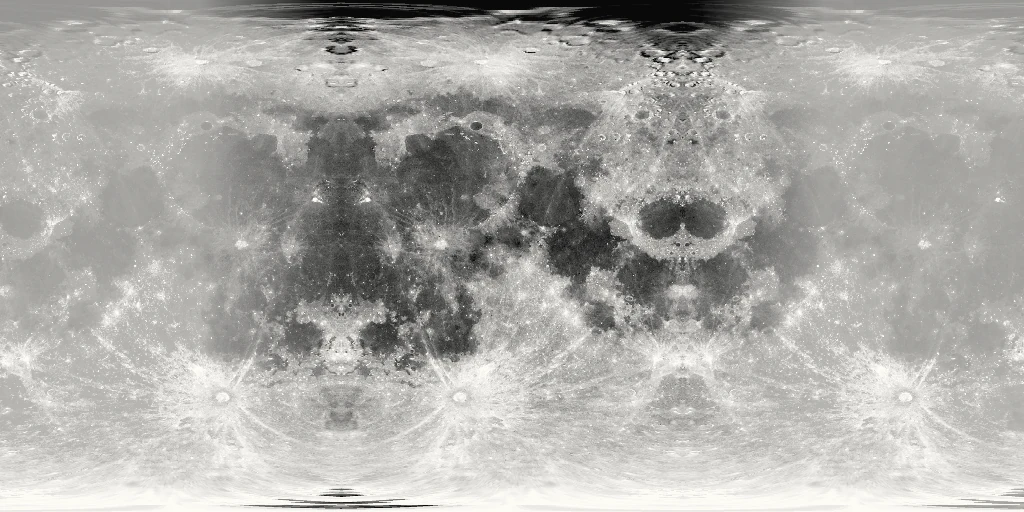
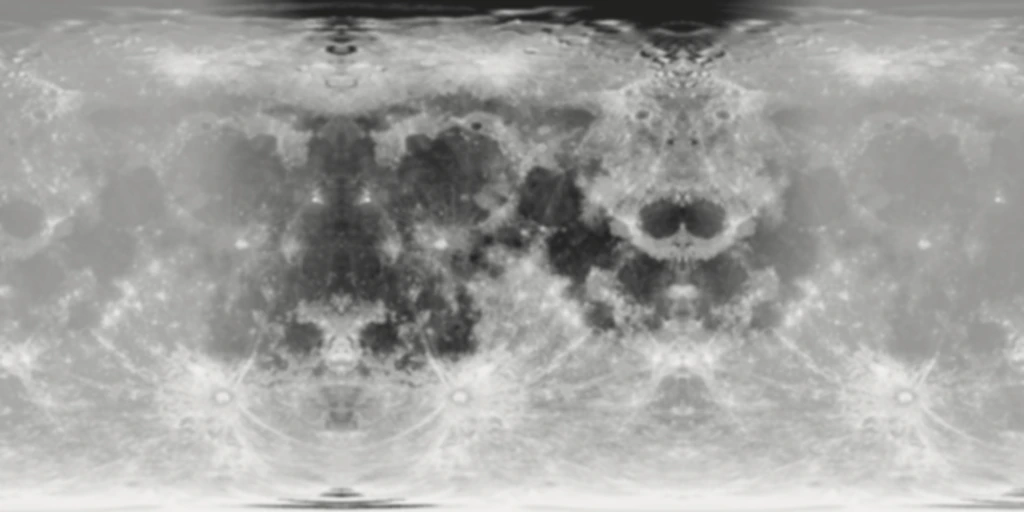
Fix the moon: stop the sparkle, make the spin visible, cool the glow
Three complaints, three distinct causes.

Glitter. The texture was sampled with nearest-neighbour. A 1024px map
on a ~92px disc puts about ten texels under every screen pixel, so each
one snapped from texel to texel as the sphere turned and the surface
crawled. Now sampled bilinearly, and the map itself is pre-blurred when
generated, which is the honest equivalent of picking a mip level for the
size it actually prints at. Measured spatial roughness inside the disc
falls 4.93 -> 2.46. The star twinkle and the flash on each meteor head
were glittering too: twinkle amplitude 0.45 -> 0.10 and much slower, and
the 7px white halo on the head is now a 3.4px soft one.

Rotation. It was turning at 0.016 rad/s, one revolution per six and a
half minutes. Cross-correlating the surface puts that at 0.60 px/sec of
travel, which is sub-pixel and so not rotation anyone can see. Now
0.078 rad/s, one turn per ~80 seconds, measured at 3.35 px/sec.

Glow. The corona was amber, carried over from a reference photograph
shot through warm haze, sitting on a blue-black sky. Measured as blue
minus red it ran -10 at the rim against a sky of +29: warm ring, cool
sky. Re-toned to the sky, now +6 at the rim and +19 just outside it, and
the moonlit cloud and halo stops go silver rather than sodium.

Hero text contrast holds or improves at every width (worst case, the
eyebrow at 390: 6.45 -> 6.85). Backdrop runs 38fps.

Claude-Session: https://claude.ai/code/session_01SKznHeeSFFYwbhuewwmQCu

diff --git a/assets/js/backdrop.js b/assets/js/backdrop.js
@@ -50,7 +50,7 @@
   var SKY_MID  = [22, 31, 45];
   var SKY_LOW  = [7, 9, 13];       /* meets the page ground                */
   var CLOUD    = [122, 134, 152];  /* cold cloud                           */
-  var CLOUD_W  = [150, 126, 110];  /* the warm side, near the light        */
+  var CLOUD_W  = [146, 158, 180];  /* the lit side: silver, not sodium     */
 
   /* ---------- buffer ----------
      Sized to the band's own aspect so nothing is cropped, and capped
@@ -89,8 +89,8 @@
     var halo = u.createRadialGradient(moon.x, moon.y, 0, moon.x, moon.y, W * 0.38);
     halo.addColorStop(0,    'rgba(226,234,248,' + (0.38 * lightScale).toFixed(3) + ')');
     halo.addColorStop(0.16, 'rgba(188,200,222,' + (0.21 * lightScale).toFixed(3) + ')');
-    halo.addColorStop(0.45, 'rgba(150,146,150,' + (0.09 * lightScale).toFixed(3) + ')');
-    halo.addColorStop(1,    'rgba(120,110,108,0)');
+    halo.addColorStop(0.45, 'rgba(140,152,178,' + (0.09 * lightScale).toFixed(3) + ')');
+    halo.addColorStop(1,    'rgba(104,120,150,0)');
     u.fillStyle = halo; u.fillRect(0, 0, W, H);
 
     cloudCv = document.createElement('canvas');
@@ -121,8 +121,8 @@
 
     o.globalCompositeOperation = 'screen';
     var lit = o.createRadialGradient(moon.x, moon.y, 0, moon.x, moon.y, W * 0.27);
-    lit.addColorStop(0,    'rgba(255,250,242,' + (0.60 * lightScale).toFixed(3) + ')');
-    lit.addColorStop(0.22, 'rgba(210,206,204,' + (0.30 * lightScale).toFixed(3) + ')');
+    lit.addColorStop(0,    'rgba(232,242,255,' + (0.60 * lightScale).toFixed(3) + ')');
+    lit.addColorStop(0.22, 'rgba(196,210,232,' + (0.30 * lightScale).toFixed(3) + ')');
     lit.addColorStop(0.55, rgba(CLOUD_W, (0.16 * lightScale).toFixed(3)));
     lit.addColorStop(1,    'rgba(0,0,0,0)');
     o.fillStyle = lit; o.fillRect(0, 0, W, H);
@@ -407,19 +407,41 @@
 
         var lat = Math.asin(Math.max(-1, Math.min(1, y1)));
         var lon = Math.atan2(x2, z2);
-        var u = ((lon / (Math.PI * 2) + 0.5) * TW) | 0;
-        var v = ((0.5 - lat / Math.PI) * TH) | 0;
-        if (u < 0) u = 0; else if (u >= TW) u = TW - 1;
-        if (v < 0) v = 0; else if (v >= TH) v = TH - 1;
-        var ti = (v * TW + u) * 4;
+
+        /* Bilinear, not nearest. Rounding to the nearest texel was the
+           whole glitter: a 1024px map on a 90px disc means every screen
+           pixel spans about ten texels, so as the sphere turns each one
+           snaps from texel to texel and the surface crawls with
+           sparkles. Interpolating makes the moon slide smoothly under
+           its own detail instead. Longitude wraps at the seam,
+           latitude clamps at the poles.
+
+           One channel is enough: the map is built grey, so the slight
+           warmth is reapplied here as a multiplier rather than carried
+           through three more texel reads. */
+        var fu = (lon / (Math.PI * 2) + 0.5) * TW - 0.5;
+        var fv = (0.5 - lat / Math.PI) * TH - 0.5;
+        var u0 = Math.floor(fu), v0 = Math.floor(fv);
+        var du = fu - u0, dv = fv - v0;
+        var u1 = ((u0 + 1) % TW + TW) % TW;
+        u0 = (u0 % TW + TW) % TW;
+        var v1 = v0 + 1;
+        if (v0 < 0) v0 = 0; else if (v0 >= TH) v0 = TH - 1;
+        if (v1 < 0) v1 = 0; else if (v1 >= TH) v1 = TH - 1;
+        var r0 = v0 * TW, r1 = v1 * TW;
+        var ta = TEX[(r0 + u0) * 4], tb = TEX[(r0 + u1) * 4];
+        var tc = TEX[(r1 + u0) * 4], td = TEX[(r1 + u1) * 4];
+        var top = ta + (tb - ta) * du;
+        var bot = tc + (td - tc) * du;
+        var g = top + (bot - top) * dv;
 
         /* lunar limb darkening is mild until the very edge */
         var lim = 0.86 + 0.14 * nz;
         var edge = d2 > 0.965 ? Math.max(0, 1 - (d2 - 0.965) / 0.035) : 1;
 
-        out[o]     = TEX[ti]     * lim;
-        out[o + 1] = TEX[ti + 1] * lim;
-        out[o + 2] = TEX[ti + 2] * lim;
+        out[o]     = g * lim;
+        out[o + 1] = g * lim * 0.997;
+        out[o + 2] = g * lim * 0.985;
         out[o + 3] = 255 * edge;
       }
     }
@@ -436,7 +458,10 @@
     /* --- stars, behind the cloud --- */
     for (var i = 0; i < stars.length; i++) {
       var s = stars[i];
-      var tw = 0.55 + 0.45 * Math.sin(time * 0.5 + s.tw);
+      /* Barely breathing, not blinking. At 0.45 amplitude every star
+         pulsed to half brightness twice a second and the whole sky
+         flickered; real stars scintillate far more finely than that. */
+      var tw = 0.90 + 0.10 * Math.sin(time * 0.22 + s.tw);
       ctx.beginPath();
       ctx.arc(s.nx * W, s.ny * H, s.r, 0, Math.PI * 2);
       ctx.fillStyle = 'rgba(214,226,244,' + (s.a * tw).toFixed(3) + ')';
@@ -485,14 +510,15 @@
         ctx.strokeStyle = tail;
         ctx.lineWidth = 1.8;
         ctx.beginPath(); ctx.moveTo(tx, ty); ctx.lineTo(hx, hy); ctx.stroke();
-        /* a small halo under the head, so it reads as a point of light
-           rather than the end of a line */
-        var hg = ctx.createRadialGradient(hx, hy, 0, hx, hy, 7);
-        hg.addColorStop(0, 'rgba(255,255,255,' + (0.95 * fade).toFixed(3) + ')');
-        hg.addColorStop(0.35, 'rgba(226,238,255,' + (0.4 * fade).toFixed(3) + ')');
-        hg.addColorStop(1, 'rgba(200,220,255,0)');
+        /* The head used to carry a 7px white halo at 0.95 alpha, which
+           made each one flare like a camera flash. A streak that simply
+           ends bright is what a meteor looks like; the glint is the
+           thing that looked cheap. */
+        var hg = ctx.createRadialGradient(hx, hy, 0, hx, hy, 3.4);
+        hg.addColorStop(0, 'rgba(236,244,255,' + (0.5 * fade).toFixed(3) + ')');
+        hg.addColorStop(1, 'rgba(206,222,248,0)');
         ctx.fillStyle = hg;
-        ctx.beginPath(); ctx.arc(hx, hy, 7, 0, Math.PI * 2); ctx.fill();
+        ctx.beginPath(); ctx.arc(hx, hy, 3.4, 0, Math.PI * 2); ctx.fill();
       }
     }
 
@@ -500,15 +526,24 @@
        A warm rim just outside a hard white centre, which is the one
        detail that makes it read as moon rather than as a dot. */
     var corona = ctx.createRadialGradient(moon.x, moon.y, moon.r * 1.0, moon.x, moon.y, moon.r * 3.1);
-    corona.addColorStop(0,   'rgba(255,216,170,0.40)');
-    corona.addColorStop(0.3, 'rgba(228,150,88,0.19)');
-    corona.addColorStop(1,   'rgba(214,122,70,0)');
+    /* Cool, because the sky is cool. These stops were amber, carried
+       over from a reference photograph shot through warm haze, and on a
+       blue-black sky an orange ring around a white disc reads as a
+       sticker rather than as light. Matched to SKY_TOP instead, and
+       faded out on a near-sky hue so the gradient has no visible rim. */
+    corona.addColorStop(0,   'rgba(198,216,246,0.30)');
+    corona.addColorStop(0.3, 'rgba(146,170,210,0.14)');
+    corona.addColorStop(1,   'rgba(104,130,170,0)');
     ctx.fillStyle = corona;
     ctx.beginPath();
     ctx.arc(moon.x, moon.y, moon.r * 2.9, 0, Math.PI * 2);
     ctx.fill();
 
-    drawSphere(reduce ? 0.6 : time * 0.016);
+    /* One turn in about eighty seconds. The old rate, 0.016 rad/s, was
+       one turn per six and a half minutes: arithmetically rotating and
+       humanly static, which is the same thing as not rotating. Slow
+       enough to stay calm, fast enough to be seen moving. */
+    drawSphere(reduce ? 0.6 : time * 0.078);
 
     if (running) requestAnimationFrame(draw);
   }
